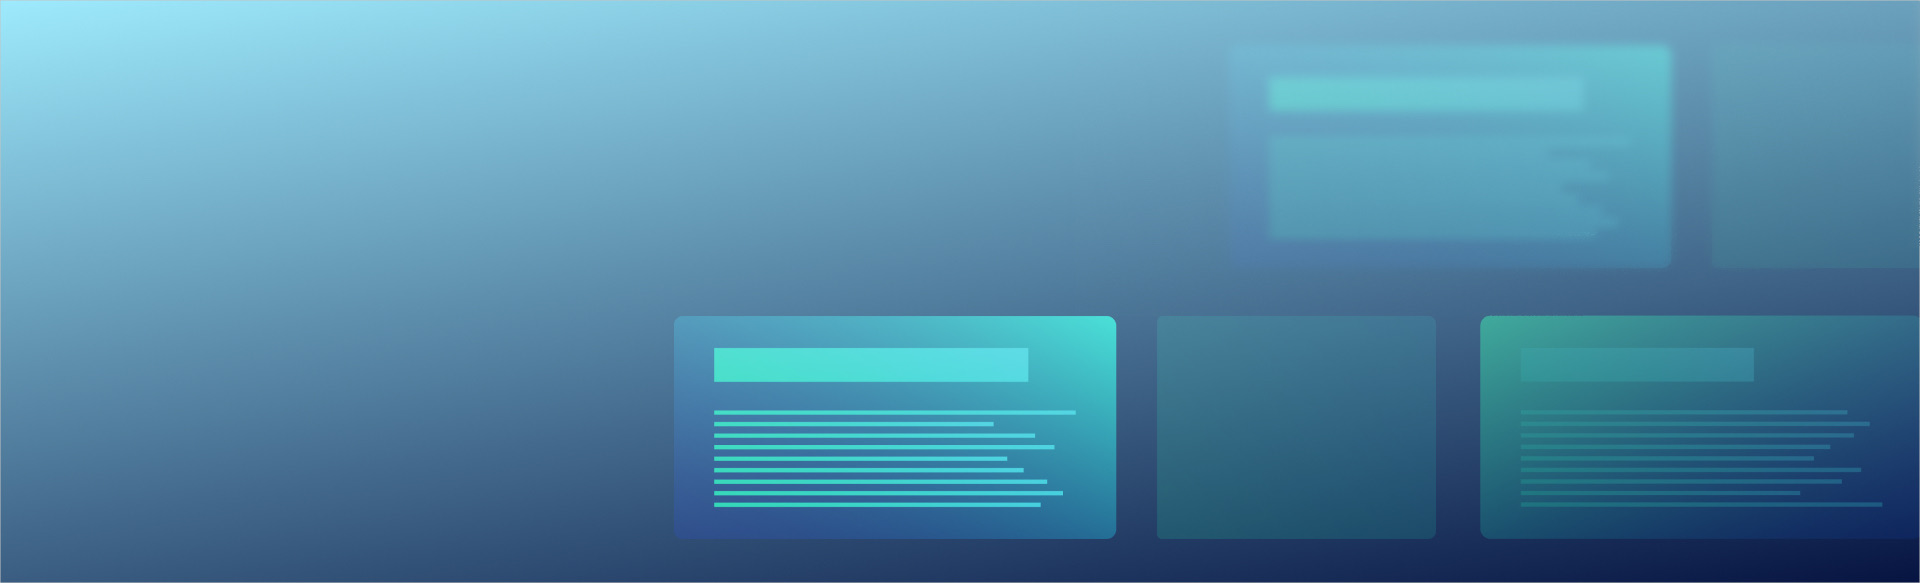
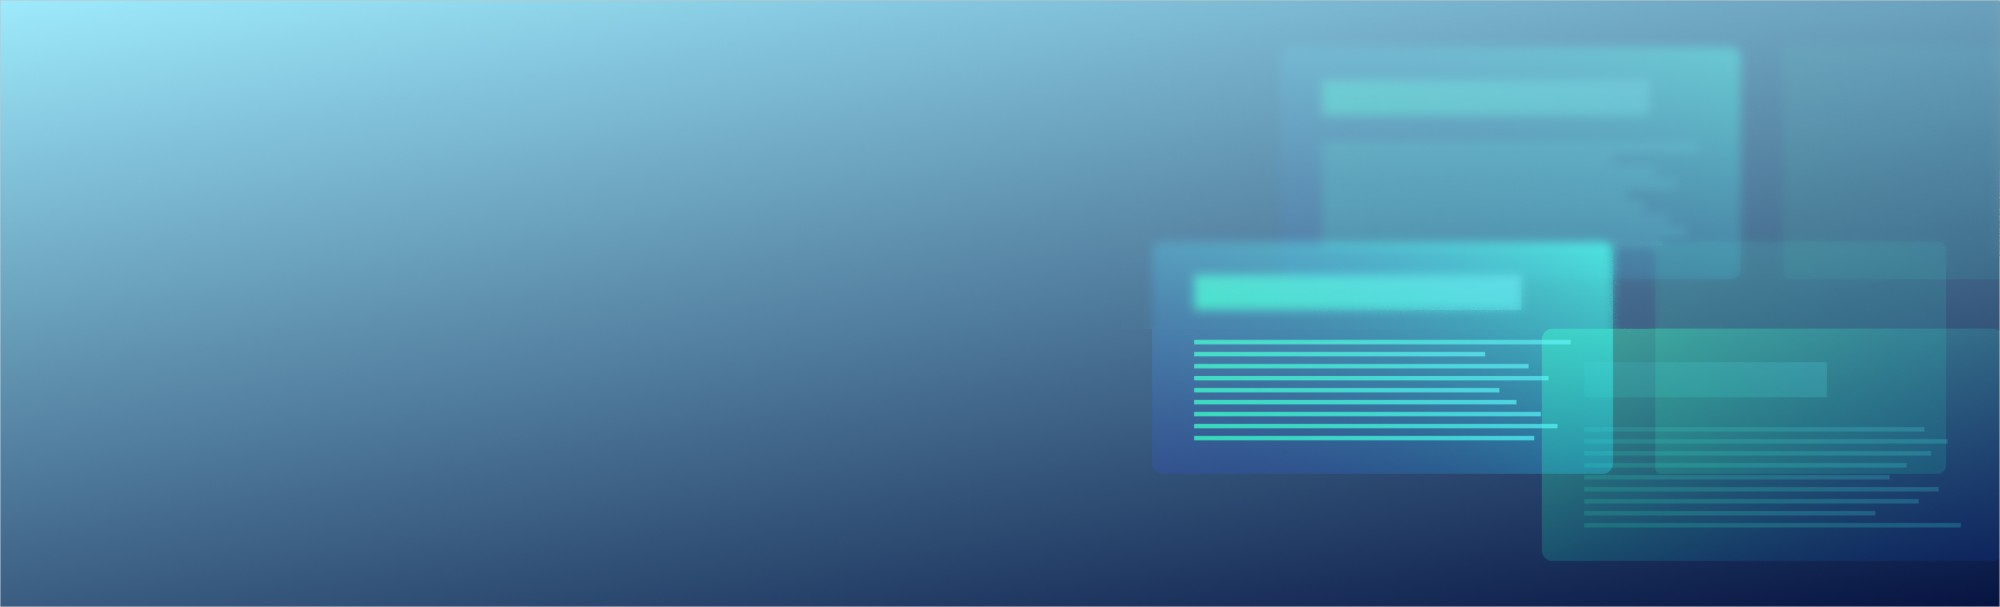
Кейс ЕАБР: новая обложка докладов, текст на обложках снова по центру

Changed region(s): [[0.3438, 0.3705, 0.8125, 0.9262], [0.8438, 0.741, 0.9688, 0.7719]]

diff --git a/audit.css b/audit.css
@@ -909,8 +909,8 @@ img.au-city-logo{height:clamp(22px,2vw,30px);width:auto;border-radius:0}
 .au-cov-slide.on{opacity:1}
 .au-cov-slide img{width:100%;height:100%;object-fit:cover;border-radius:0;transform:scale(1.06);transition:transform 5s linear}
 .au-cov-slide.on img{transform:scale(1)}
-.au-cov-txt{position:absolute;left:clamp(20px,5vw,80px);top:clamp(18px,11%,72px);max-width:min(31%,460px);display:flex;flex-direction:column;gap:clamp(8px,1vw,16px);color:#fff;transform:translateY(16px);opacity:0;transition:opacity .7s var(--ease),transform .9s var(--ease)}
-.au-cov-slide.on .au-cov-txt{opacity:1;transform:none;transition-delay:.35s}
+.au-cov-txt{position:absolute;left:clamp(20px,5vw,80px);top:50%;max-width:min(44%,560px);display:flex;flex-direction:column;gap:clamp(8px,1vw,16px);color:#fff;transform:translateY(calc(-50% + 16px));opacity:0;transition:opacity .7s var(--ease),transform .9s var(--ease)}
+.au-cov-slide.on .au-cov-txt{opacity:1;transform:translateY(-50%);transition-delay:.35s}
 .au-cov-txt b{font-weight:500;font-size:clamp(22px,2.8vw,40px);line-height:1.1}
 .au-cov-txt span{font-size:clamp(16px,1.3vw,19px);line-height:1.45;opacity:.9}
 .au-cov-tabs{position:relative;display:grid;grid-template-columns:repeat(var(--n),minmax(0,1fr));width:min(100%,520px);padding:5px;margin-bottom:16px;border-radius:999px;background:var(--soft)}
